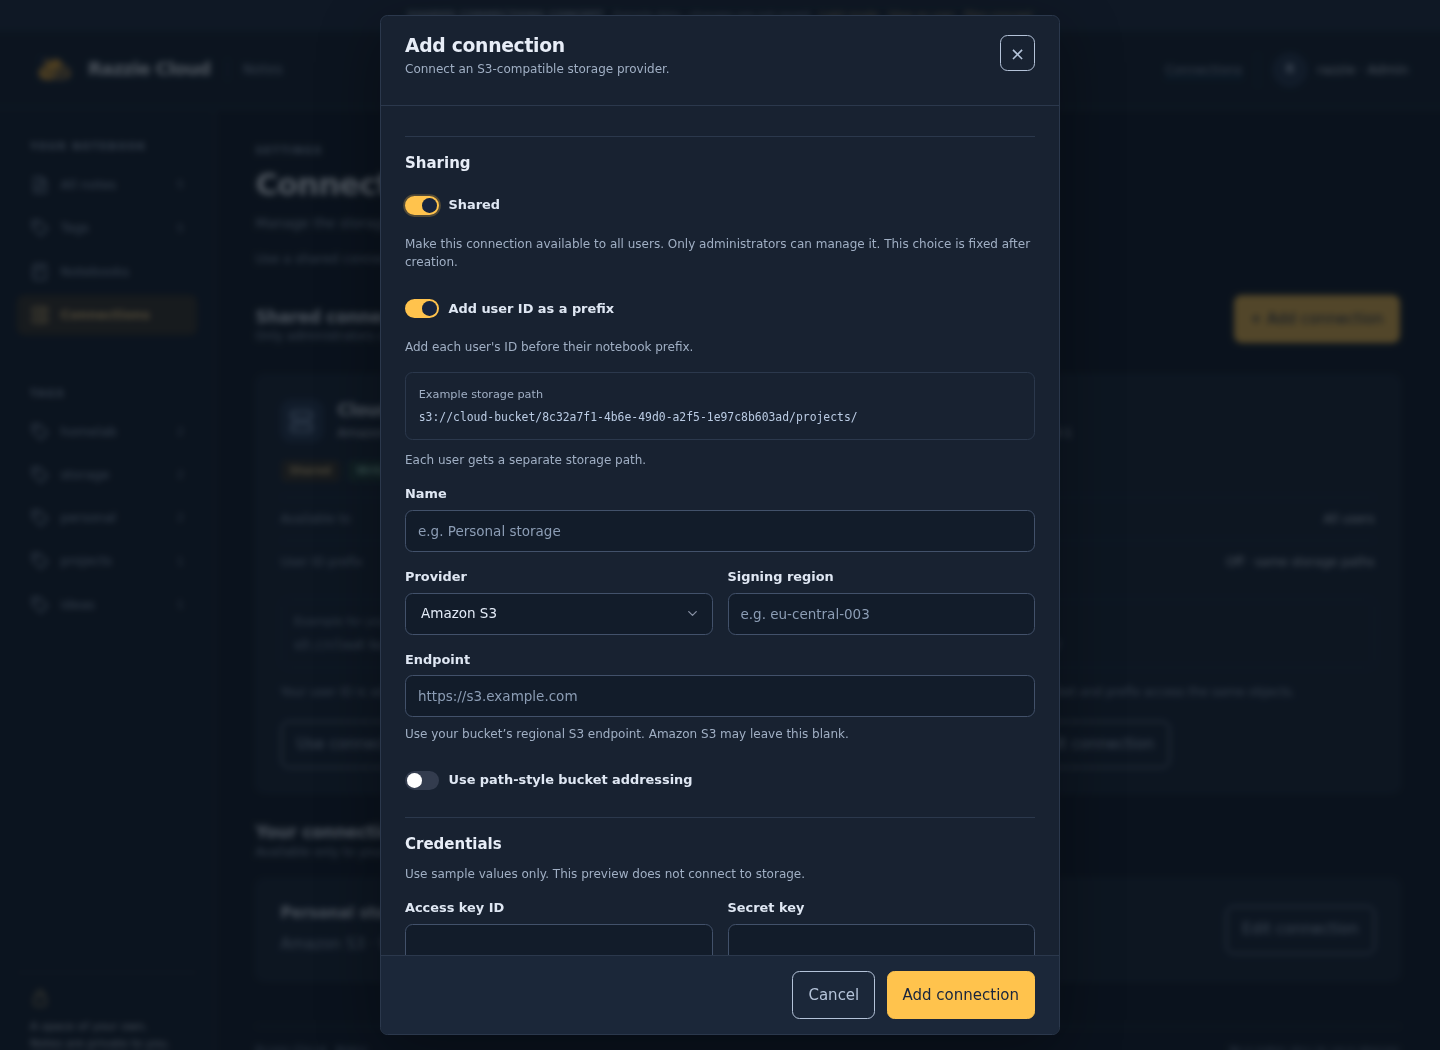
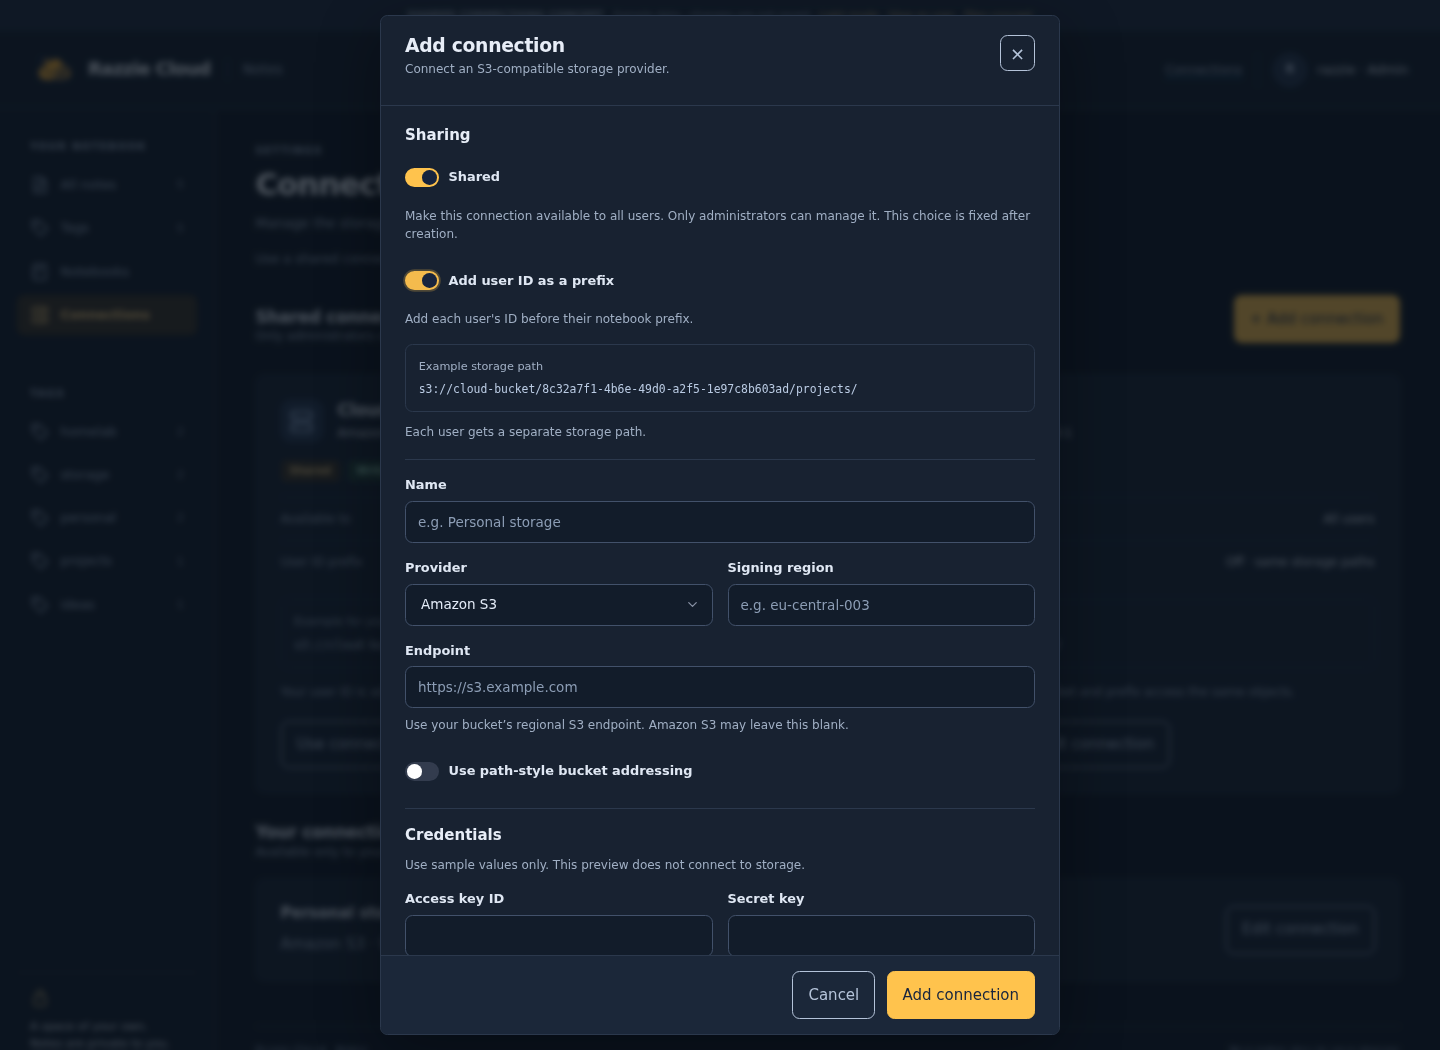
Move Sharing divider below connection controls

Changed region(s): [[0.2812, 0.1219, 0.5938, 0.8838], [0.5, 0.5181, 0.625, 0.6095], [0.625, 0.1829, 0.7188, 0.2438]]

diff --git a/internal/web/templates.html b/internal/web/templates.html
@@ -55,7 +55,7 @@
 <form class="connection-form" data-connection-form method="post" action="/connections{{if .ID}}/{{.ID}}{{end}}" hx-post="/connections{{if .ID}}/{{.ID}}{{end}}" hx-target="#connection-feedback" hx-disabled-elt="find button[type=submit]">
 <input type="hidden" name="revision" value="{{.Revision}}">
 <div class="form-fields">
-{{if $.Admin}}<section class="field-section" aria-labelledby="connection-sharing-title"><h3 id="connection-sharing-title">Sharing</h3>
+{{if $.Admin}}<section class="field-section connection-sharing" aria-labelledby="connection-sharing-title"><h3 id="connection-sharing-title">Sharing</h3>
 <label><input id="connection-shared" name="shared" type="checkbox" role="switch" {{if .Shared}}checked{{end}} {{if .ID}}disabled{{end}} aria-describedby="connection-sharing-help"> Shared</label>
 <small id="connection-sharing-help">{{if .ID}}Shared status is fixed when the connection is created.{{else}}Make this connection available to all users. Only administrators can manage it. This choice is fixed after creation.{{end}}</small>
 {{if or .Shared (not .ID)}}<div data-shared-options {{if not .Shared}}hidden{{end}}>

diff --git a/internal/web/static/storage-connections.css b/internal/web/static/storage-connections.css
@@ -18,6 +18,7 @@
 .connection-form .two-column-form { gap: 1rem; }
 .connection-form label:has([role="switch"]) { margin-bottom: 1rem; }
 .connection-form .field-section { border: 0; border-top: 1px solid var(--pico-muted-border-color); margin: .6rem 0 1rem; padding: 1.2rem 0 0; }
+.connection-form .connection-sharing { border-top: 0; border-bottom: 1px solid var(--pico-muted-border-color); margin-top: 0; padding: 0 0 .2rem; }
 .connection-form h3 { margin-bottom: .7rem; }
 .connection-form .credential-hint { margin: 0 0 1rem; font-size: .8rem; color: var(--pico-muted-color); }
 .form-actions { display: flex; align-items: center; justify-content: flex-end; flex-wrap: wrap; gap: .75rem; }

diff --git a/docs/mockups/shared-connections.css b/docs/mockups/shared-connections.css
@@ -11,6 +11,7 @@
 .personal-card h3 { margin: 0 0 .5rem; }
 .personal-card p,.personal-card button { margin: 0; }
 .sharing-settings [hidden] { display: none; }
+.connection-form .sharing-settings { border-top: 0; border-bottom: 1px solid var(--pico-muted-border-color); margin-top: 0; padding: 0 0 .2rem; }
 .sharing-settings input[disabled] { opacity: .75; }
 #add-connection { display: inline-flex; }
 #add-connection button { margin: 0; }
